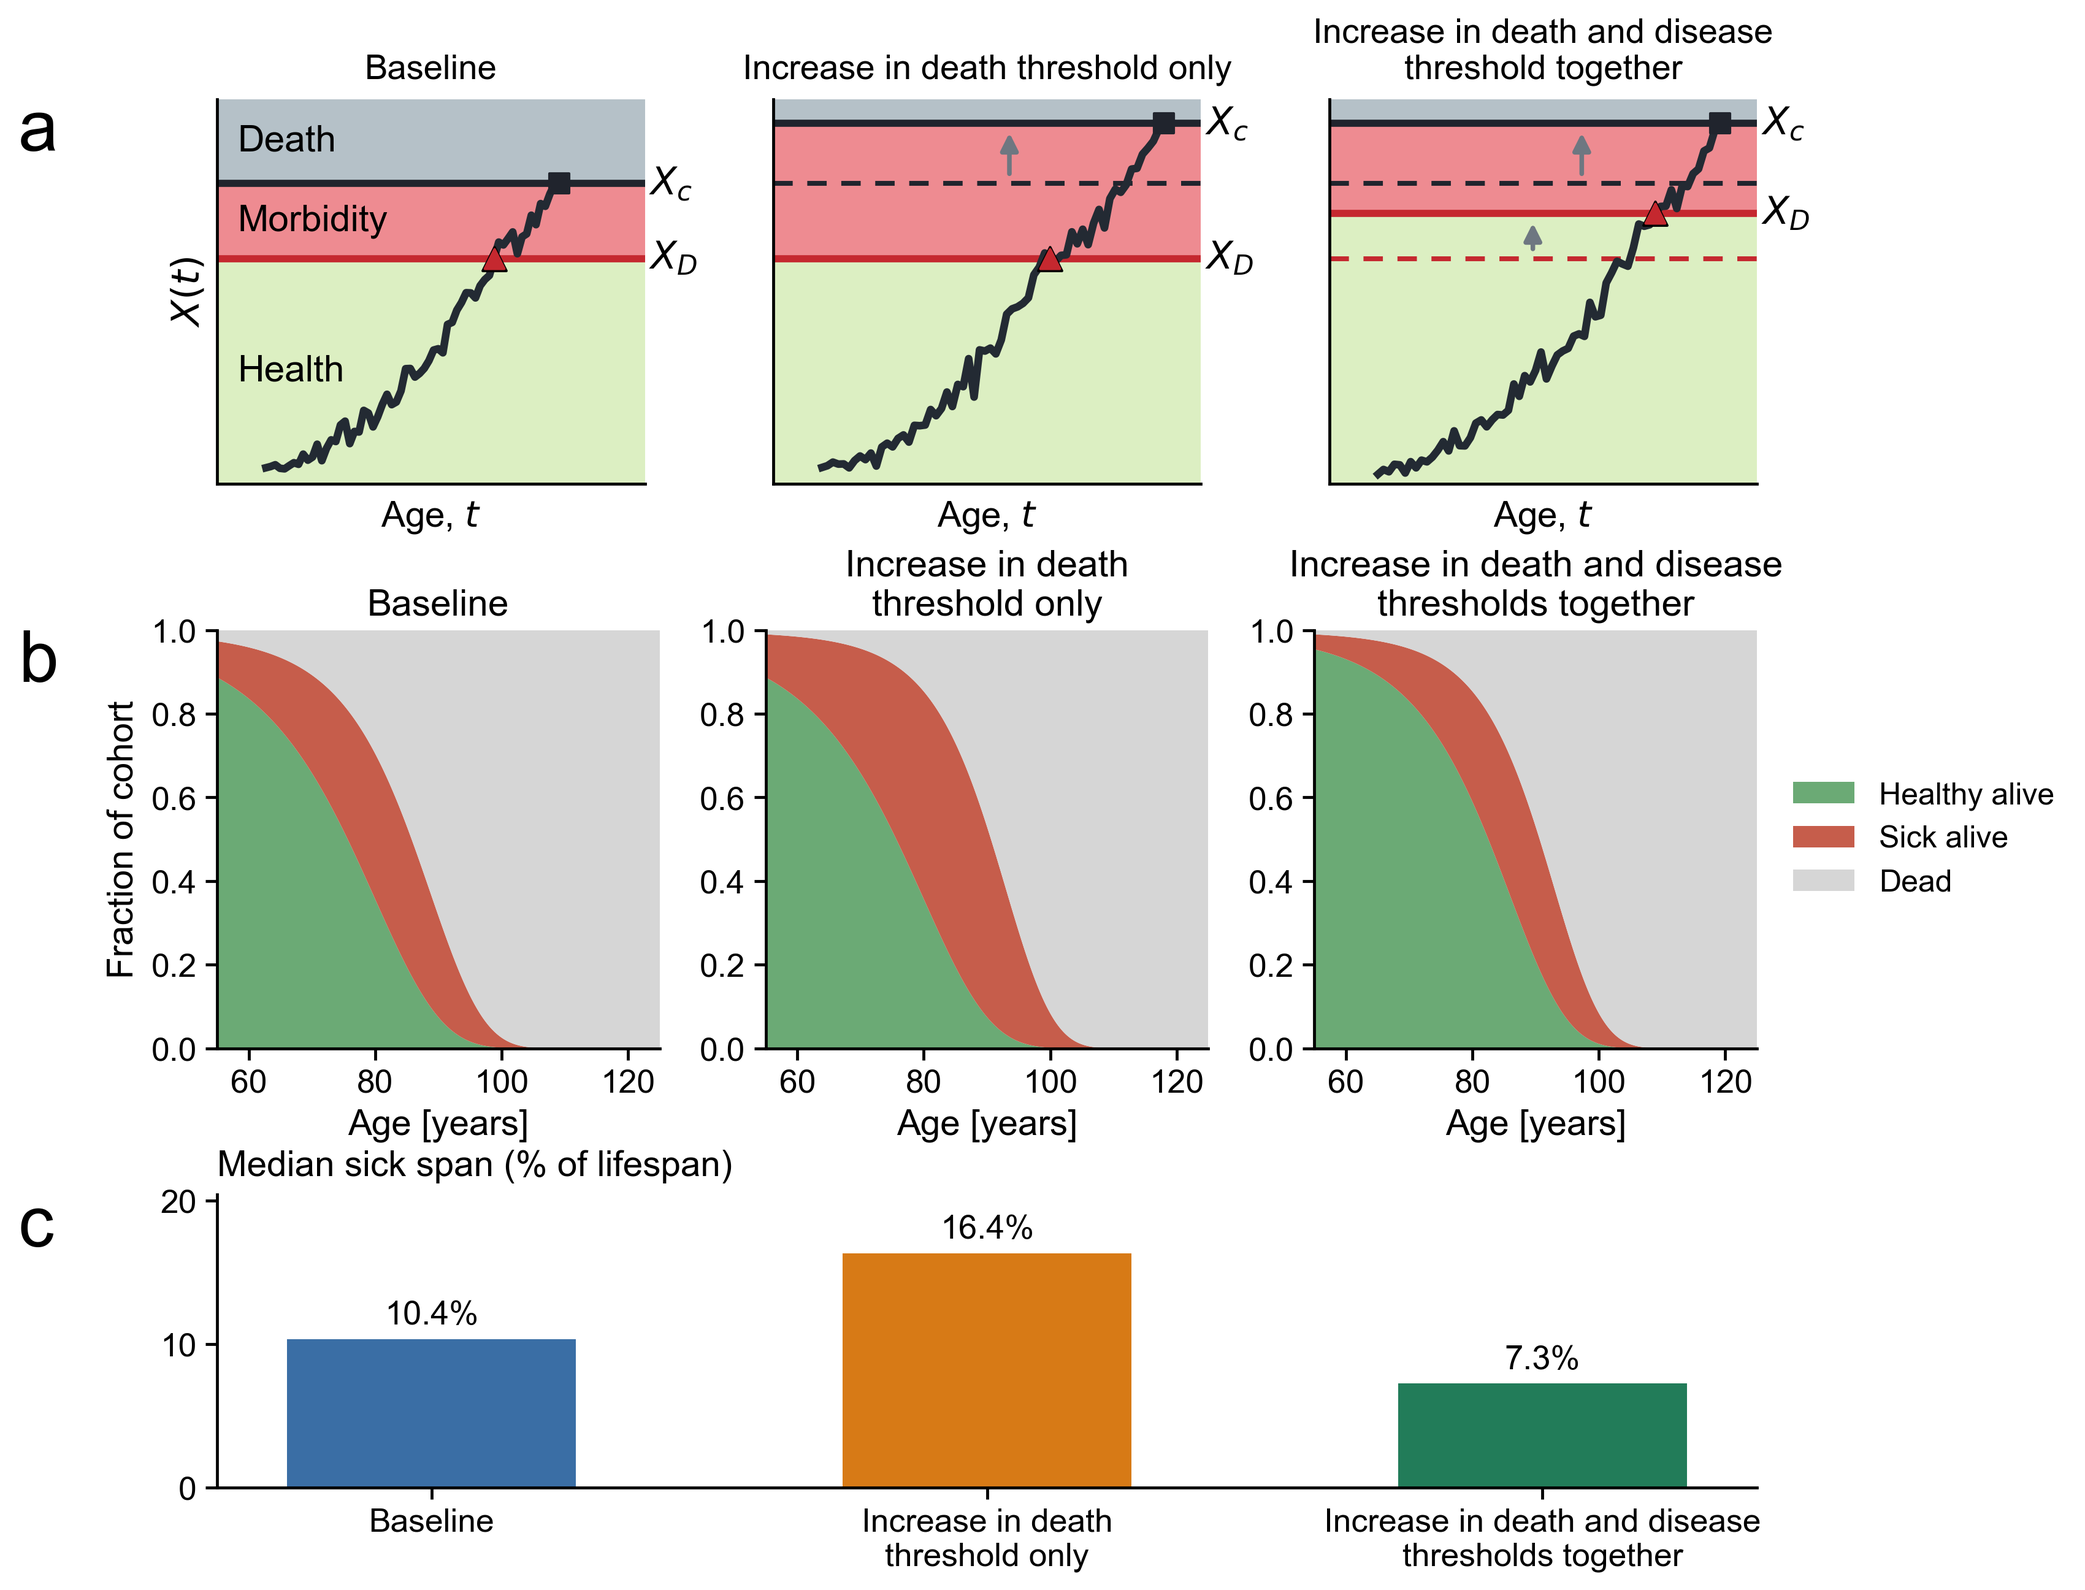
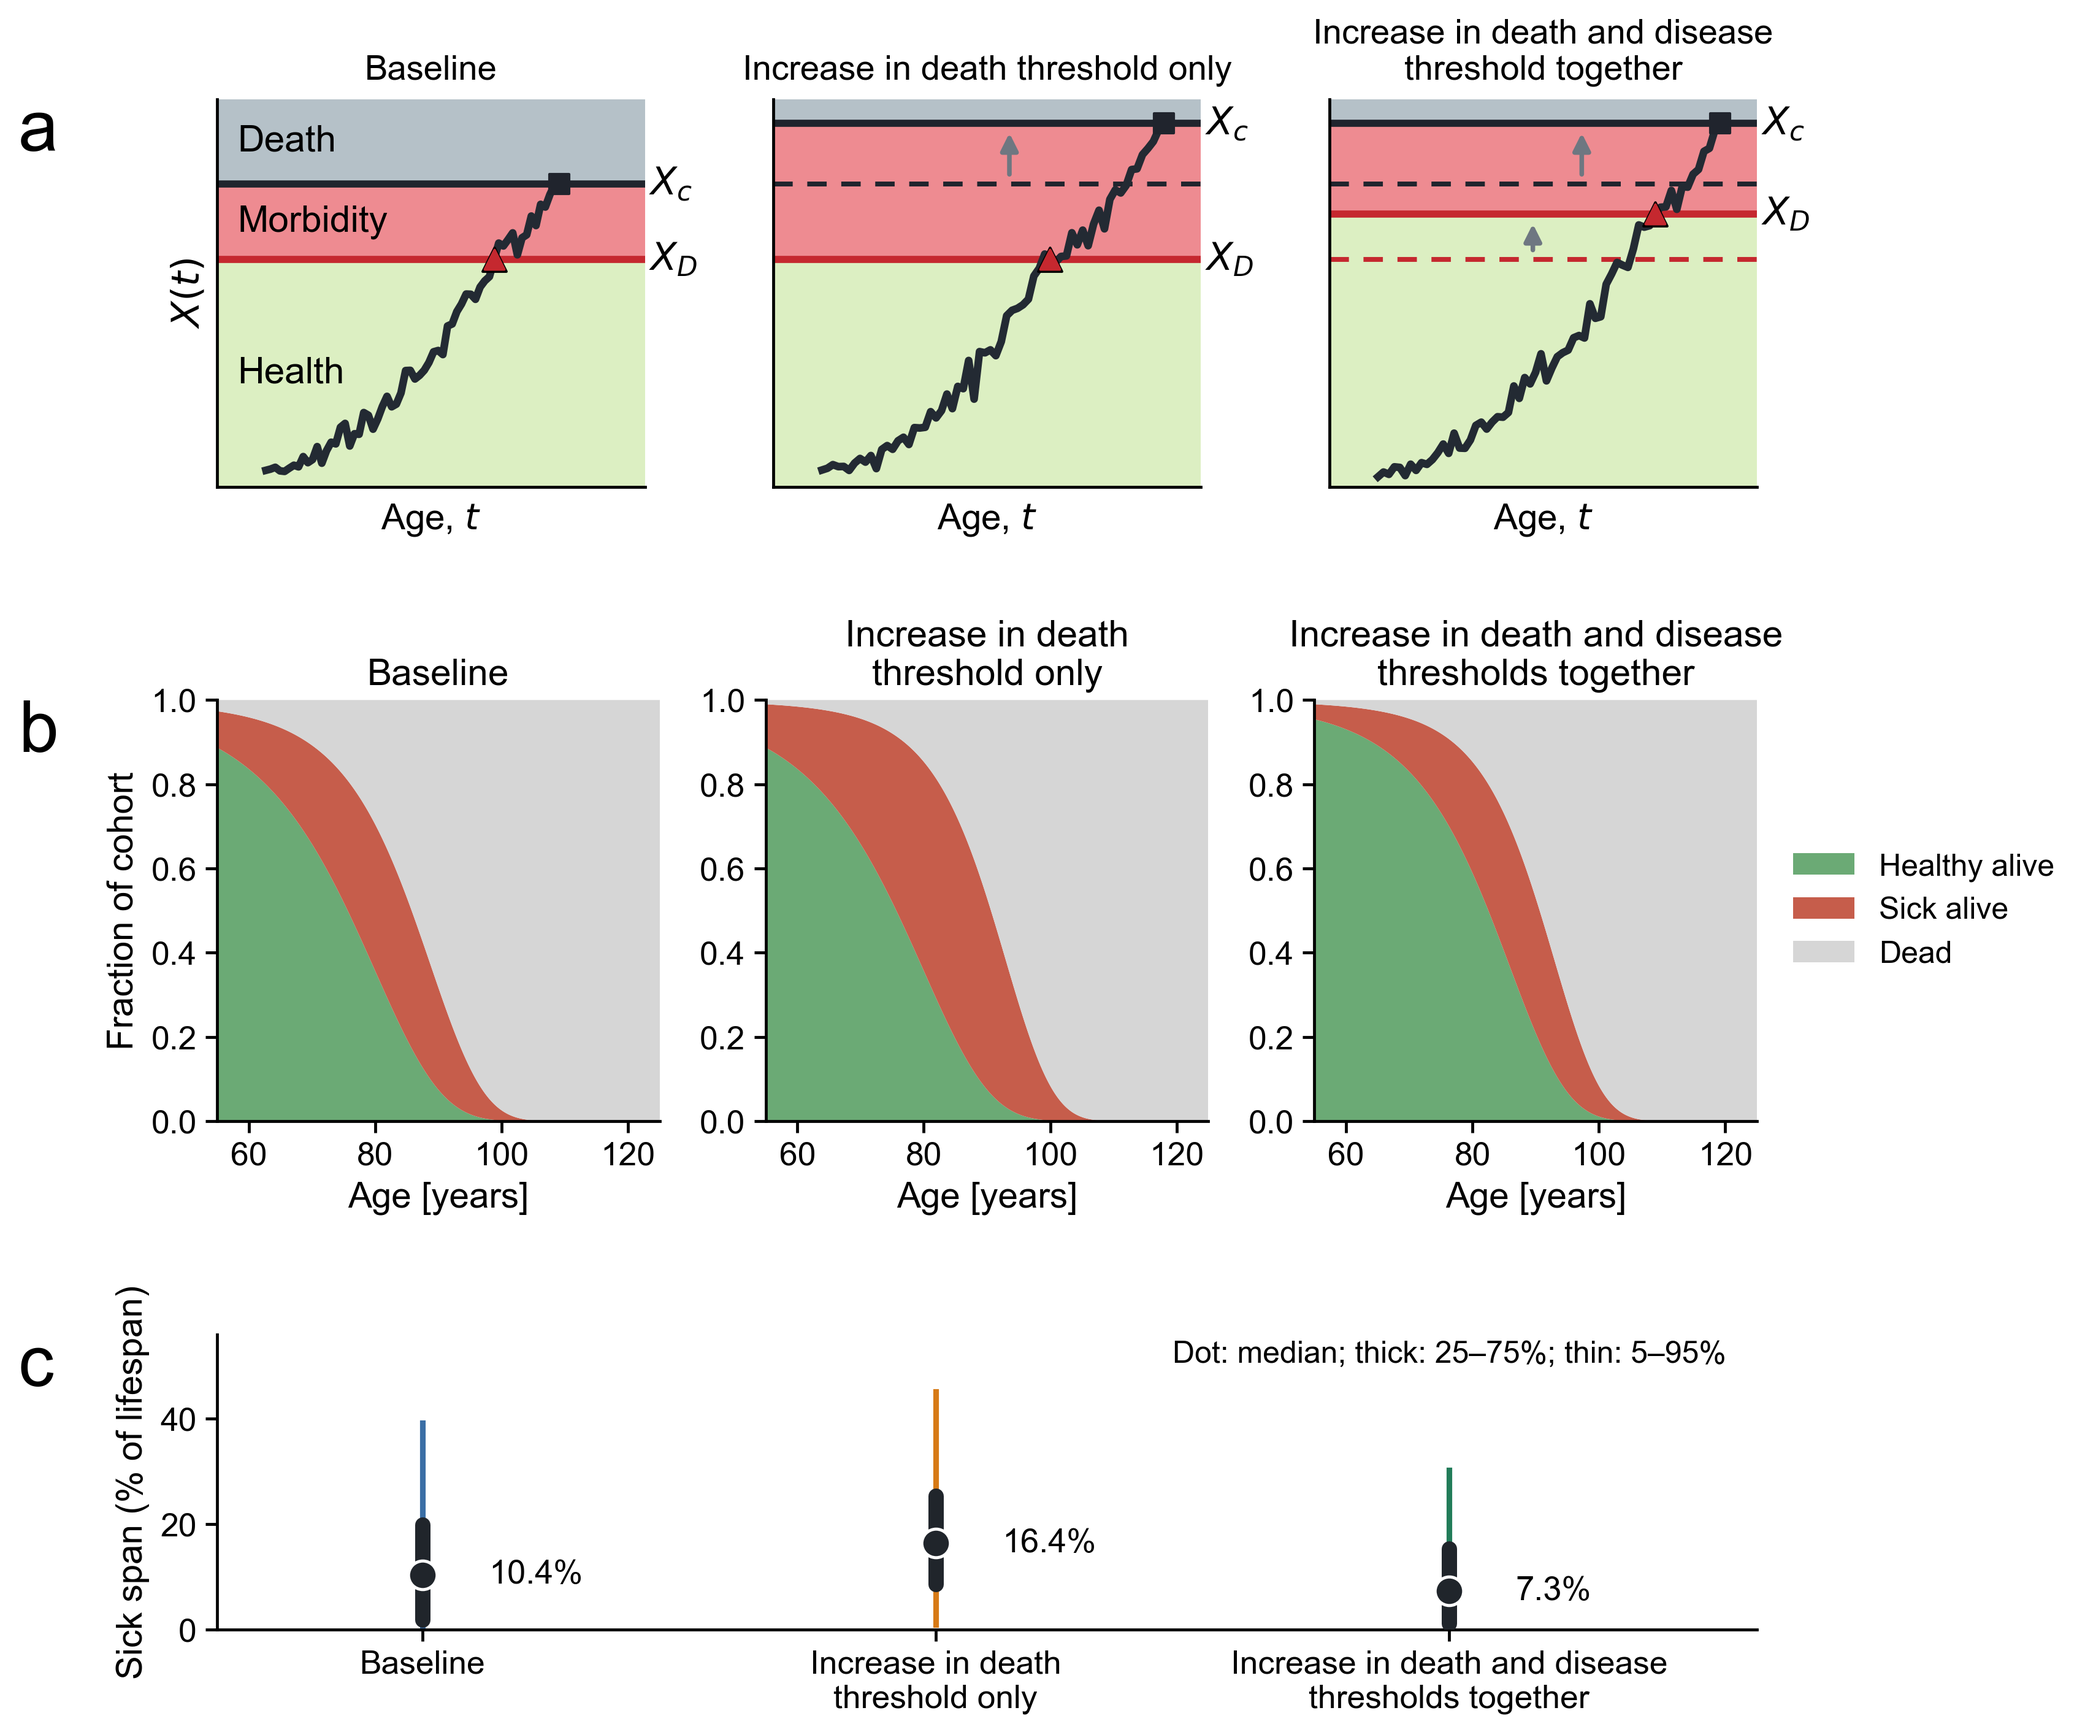
Restore joint-FP population intervals in Supplementary Figure 4

diff --git a/analysis/figures/supplementary/make_supp_figure4_healthspan_morbidity.py b/analysis/figures/supplementary/make_supp_figure4_healthspan_morbidity.py
@@ -179,38 +179,30 @@ def draw_state_row(fig: plt.Figure, outer_grid, states: pd.DataFrame) -> list[pl
 
 def draw_bar_row(fig: plt.Figure, outer_grid, summary: pd.DataFrame) -> plt.Axes:
     ax = fig.add_subplot(outer_grid)
-    medians = [100 * float(summary.loc[scenario, "median_sick_life_fraction"])
-               for scenario in SCENARIOS]
     x = np.arange(len(SCENARIOS))
     colors = [SCENARIO_COLORS[scenario] for scenario in SCENARIOS]
     labels = [WRAPPED_SCENARIO_LABELS[scenario] for scenario in SCENARIOS]
 
-    ax.bar(
-        x,
-        medians,
-        color=colors,
-        width=0.52,
-    )
-    ax.set_ylabel("")
-    ax.text(
-        0.0,
-        1.04,
-        "Median sick span (% of lifespan)",
-        transform=ax.transAxes,
-        ha="left",
-        va="bottom",
-        fontsize=14.0,
-    )
+    for index, scenario in enumerate(SCENARIOS):
+        p5, q1, median, q3, p95 = 100*summary.loc[scenario,
+            ['p05','p25','p50','p75','p95']].to_numpy(dtype=float)
+        ax.plot([index,index],[p5,p95],color=colors[index],lw=2.2,zorder=2)
+        ax.plot([index,index],[q1,q3],color='#20252B',lw=6,
+                solid_capstyle='round',zorder=3)
+        ax.scatter(index,median,s=125,color='#20252B',edgecolor='white',
+                   linewidth=1.2,zorder=4)
+        fraction = summary.loc[scenario, 'median_sick_life_fraction']
+        label = (100*Decimal(str(fraction))).quantize(Decimal('0.1'),rounding=ROUND_HALF_UP)
+        ax.text(index+.13,median,f'{label}%',ha='left',va='center',fontsize=13)
+    ax.set_ylabel('Sick span (% of lifespan)')
+    ax.text(.98,.98,'Dot: median; thick: 25–75%; thin: 5–95%',
+            transform=ax.transAxes,ha='right',va='top',fontsize=12)
     ax.set_xticks(x)
     ax.set_xticklabels(labels)
-    ax.set_ylim(0, max(medians) * 1.25)
-    ax.spines["top"].set_visible(False)
-    ax.spines["right"].set_visible(False)
-
-    for index, value in enumerate(medians):
-        fraction = summary.loc[SCENARIOS[index], "median_sick_life_fraction"]
-        label = (100 * Decimal(str(fraction))).quantize(Decimal('0.1'), rounding=ROUND_HALF_UP)
-        ax.text(index, value + 0.55, f"{label}%", ha="center", va="bottom", fontsize=13.0)
+    ax.set_xlim(-.4,2.6)
+    ax.set_ylim(0,100*summary.p95.max()*1.24)
+    ax.spines['top'].set_visible(False)
+    ax.spines['right'].set_visible(False)
     return ax
 
 
@@ -229,12 +221,12 @@ def add_panel_label(fig: plt.Figure, ax: plt.Axes, label: str) -> None:
 
 def make_composite(states: pd.DataFrame, summary: pd.DataFrame, output: Path) -> None:
 
-    fig = plt.figure(figsize=(10.8, 9.8))
+    fig = plt.figure(figsize=(10.8, 10.8))
     outer_grid = fig.add_gridspec(
         3,
         1,
         height_ratios=[0.92, 1.0, 0.70],
-        hspace=0.40,
+        hspace=0.58,
     )
 
     schematic_axes = draw_schematic_row(fig, outer_grid[0])
@@ -286,7 +278,9 @@ def load_sources(source: Path):
                 or ratios[0] != 0 or ratios[-1] != 1
                 or not np.isclose(mass.sum(), 1, atol=1e-9, rtol=0)):
             raise ValueError(f"Invalid sick-life distribution for {scenario}")
-        reconstructed = ratios[np.searchsorted(np.cumsum(mass), .5)]
+        quantiles = ratios[np.searchsorted(np.cumsum(mass), [.05,.25,.5,.75,.95])]
+        summary.loc[scenario,['p05','p25','p50','p75','p95']] = quantiles
+        reconstructed = quantiles[2]
         if not np.isclose(median, reconstructed, atol=1e-12, rtol=0):
             raise ValueError(f"Median disagrees with joint distribution for {scenario}")
     return states, summary

diff --git a/tests/test_healthspan_renderer.py b/tests/test_healthspan_renderer.py
@@ -43,6 +43,9 @@ class HealthspanRendererTests(unittest.TestCase):
             path = Path(folder)
             fixture(path)
             states, summary = renderer.load_sources(path)
+            self.assertEqual(summary.loc["baseline","p05"],0)
+            self.assertEqual(summary.loc["baseline","p25"],.5)
+            self.assertEqual(summary.loc["baseline","p95"],1)
             renderer.configure_matplotlib()
             output = path / 'synthetic_test.png'
             renderer.make_composite(states, summary, output)

diff --git a/docs/figure_methods/healthspan_fp.md b/docs/figure_methods/healthspan_fp.md
@@ -111,7 +111,7 @@ locally, not on WEXAC; see the saved-results README for provenance.
 python3 analysis/figures/supplementary/make_supp_figure4_healthspan_morbidity.py
 ```
 
-The renderer preserves the three-row schematic/state/median layout and colors.
+The renderer preserves the three-row schematic/state/distribution layout and colors.
 It reads tables only, checks probability mass and recomputes each median from
 the joint ratio distribution before plotting. Missing files fail explicitly;
 the renderer never launches simulations or falls back to the trajectory cache.
@@ -122,3 +122,9 @@ failure and rejection of a summary median inconsistent with the distribution.
 ```bash
 python3 -m unittest discover -s tests -p test_healthspan_renderer.py -v
 ```
+
+Panel c displays the median, interquartile range and 5th–95th percentile
+range from the joint-FP sick-life-fraction probability distribution. These
+are between-individual model distribution intervals, not sampling or parameter
+confidence intervals. All plotted endpoints change by at most 0.05 percentage
+points between the saved intermediate and finest grids.

diff --git a/results/supplementary4_fp/README.md b/results/supplementary4_fp/README.md
@@ -49,3 +49,13 @@ python3 analysis/figures/supplementary/make_supp_figure4_healthspan_morbidity.py
 See [methods and optional node commands](../../docs/figure_methods/healthspan_fp.md).
 Calculations use single-thread workers, with up to six concurrent workers
 for the refined grid. Rendering reads the saved tables.
+
+Panel c restores median dots, thick 25th–75th percentile intervals and thin
+5th–95th percentile intervals. These show individual population variability
+at fixed model parameters, not confidence intervals for the median. Quantiles
+are the first fraction-bin locations whose cumulative probability reaches
+0.05, 0.25, 0.50, 0.75 and 0.95. `percentiles.csv` saves these values; the
+renderer reconstructs them directly from `sick_fraction.csv`. The largest
+production-to-refined change across all displayed endpoints is 0.05 percentage
+points; see `validation/percentile_stability.json`. No new forward runs were
+needed: the saved updated joint-FP distribution contains the full information.
